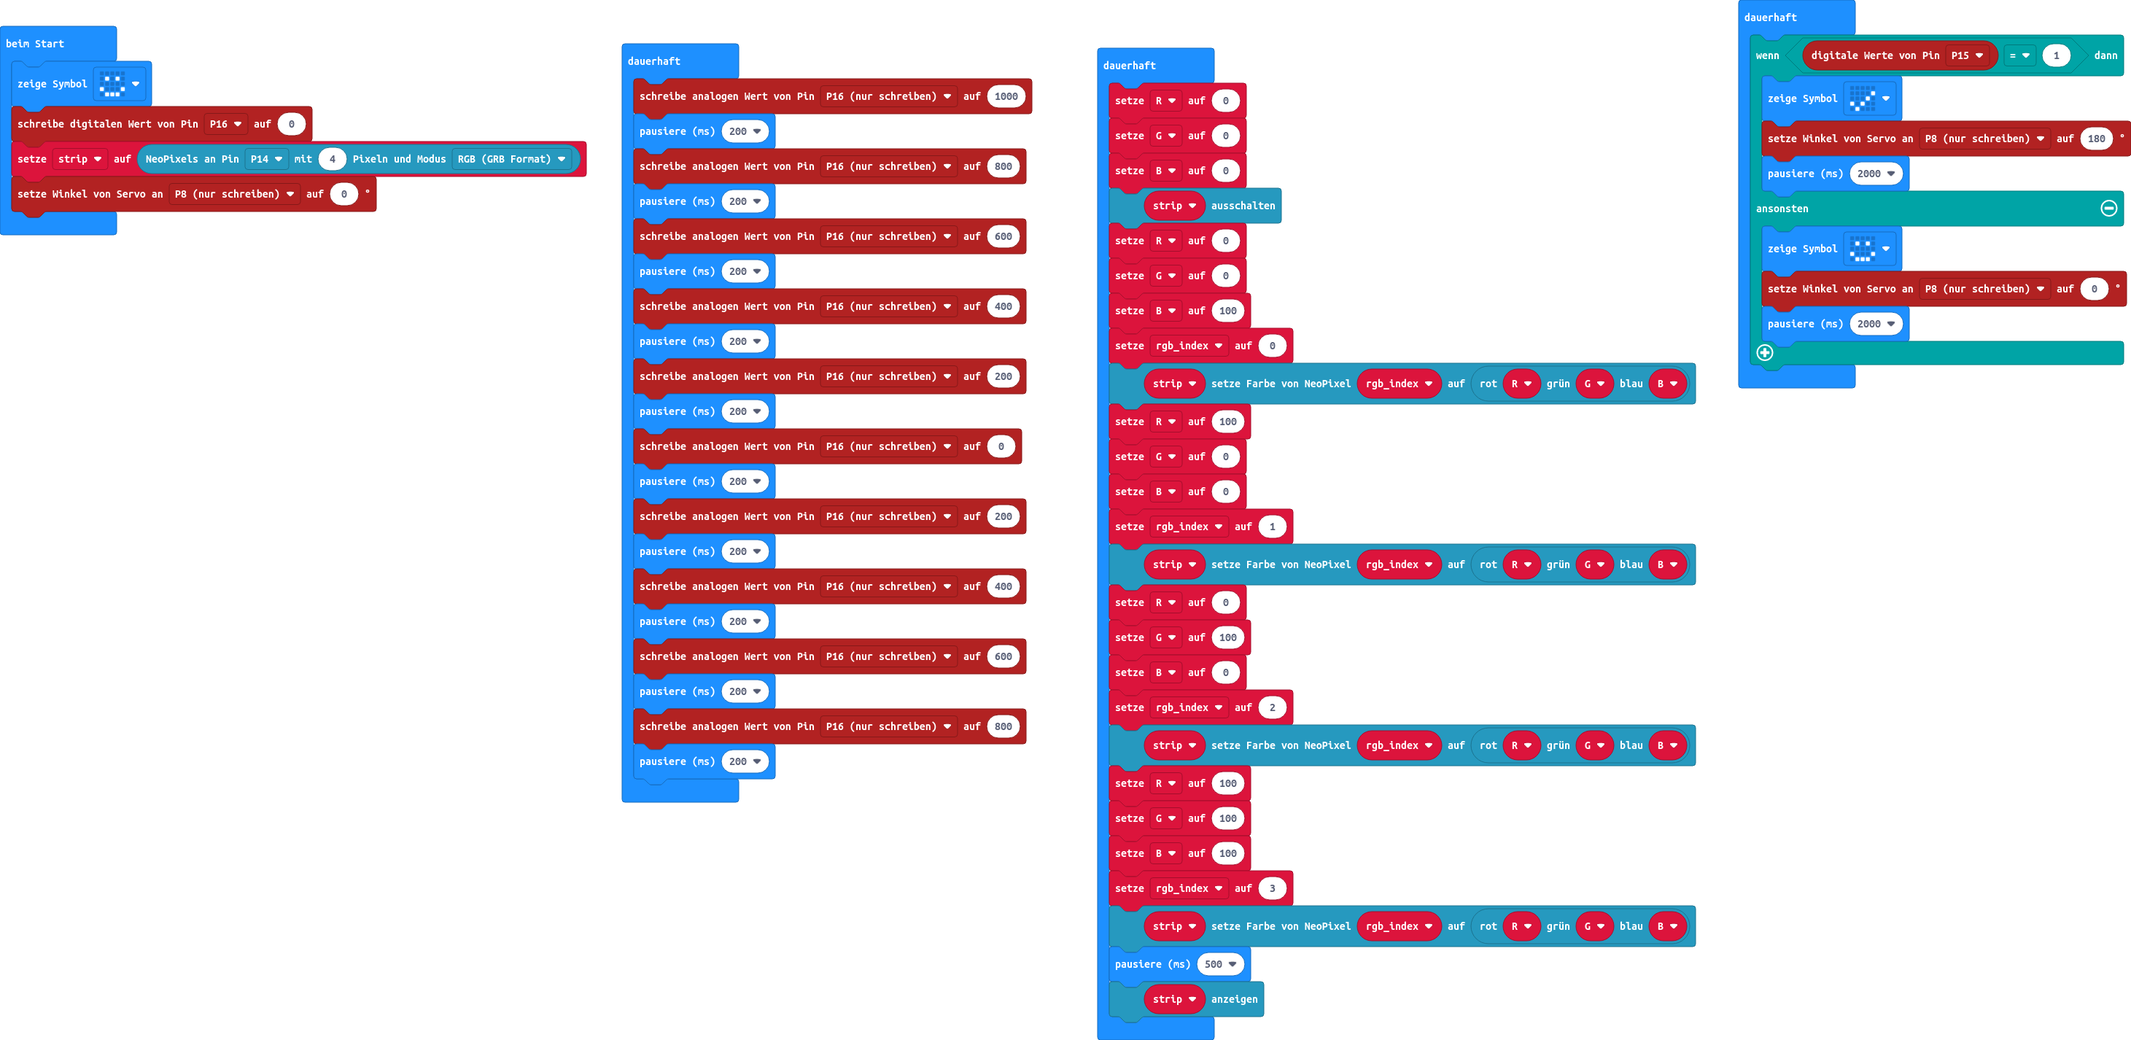
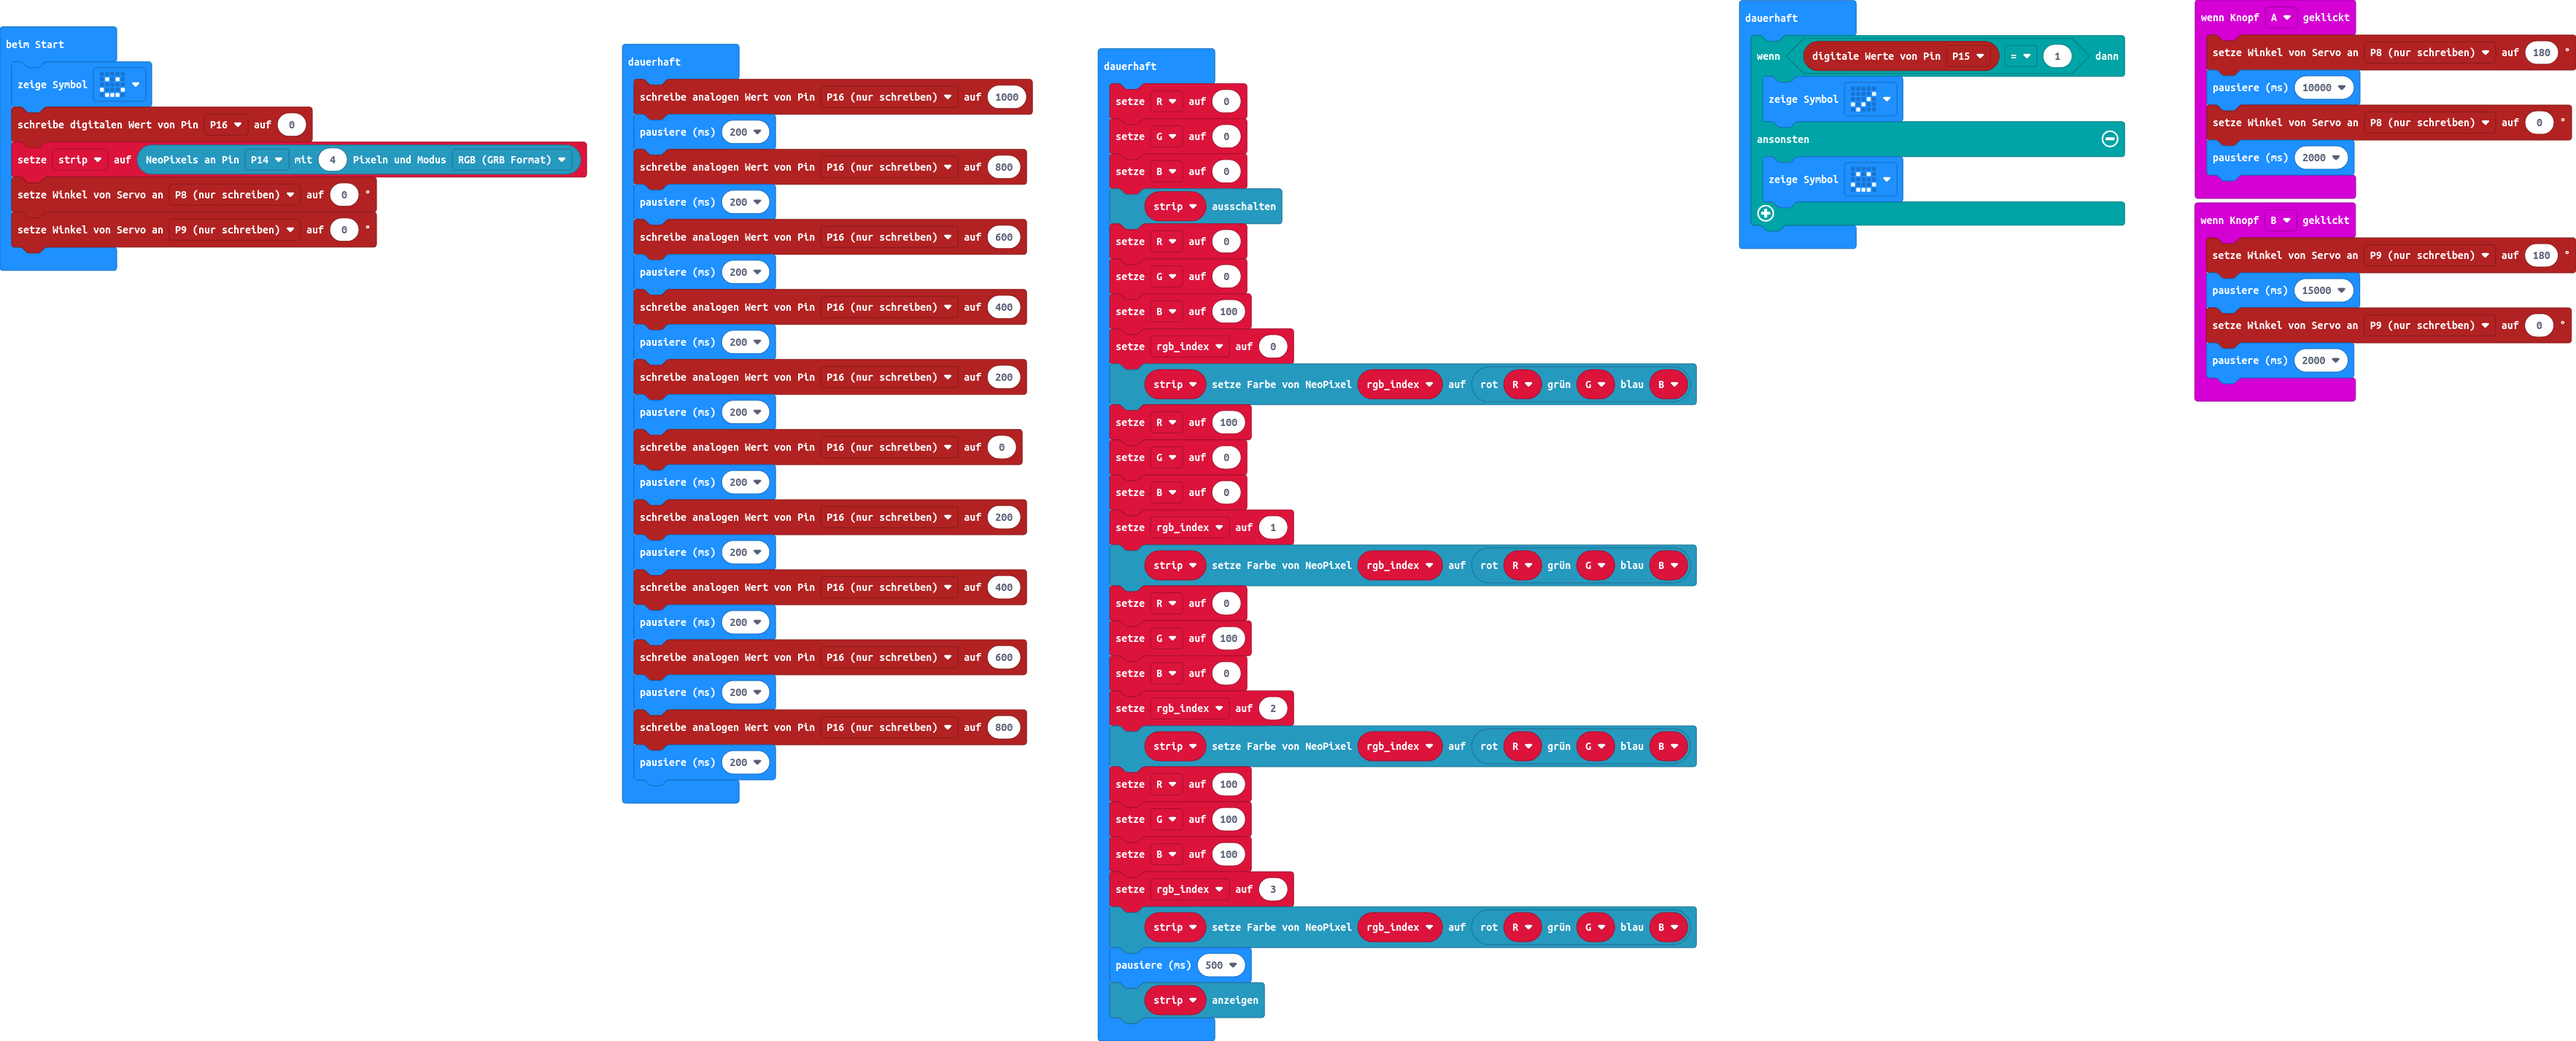
Haustuer 10 Sek. auf bei Taste A, Fenster 15 Sek. auf bei Taste B

diff --git a/main.ts b/main.ts
@@ -1,3 +1,15 @@
+input.onButtonPressed(Button.A, function () {
+    pins.servoWritePin(AnalogPin.P8, 180)
+    basic.pause(10000)
+    pins.servoWritePin(AnalogPin.P8, 0)
+    basic.pause(2000)
+})
+input.onButtonPressed(Button.B, function () {
+    pins.servoWritePin(AnalogPin.P9, 180)
+    basic.pause(15000)
+    pins.servoWritePin(AnalogPin.P9, 0)
+    basic.pause(2000)
+})
 let rgb_index = 0
 let B = 0
 let G = 0
@@ -6,6 +18,7 @@ basic.showIcon(IconNames.Happy)
 pins.digitalWritePin(DigitalPin.P16, 0)
 let strip = neopixel.create(DigitalPin.P14, 4, NeoPixelMode.RGB)
 pins.servoWritePin(AnalogPin.P8, 0)
+pins.servoWritePin(AnalogPin.P9, 0)
 basic.forever(function () {
     pins.analogWritePin(AnalogPin.P16, 1000)
     basic.pause(200)
@@ -31,12 +44,8 @@ basic.forever(function () {
 basic.forever(function () {
     if (pins.digitalReadPin(DigitalPin.P15) == 1) {
         basic.showIcon(IconNames.Yes)
-        pins.servoWritePin(AnalogPin.P8, 180)
-        basic.pause(2000)
     } else {
         basic.showIcon(IconNames.Happy)
-        pins.servoWritePin(AnalogPin.P8, 0)
-        basic.pause(2000)
     }
 })
 basic.forever(function () {
